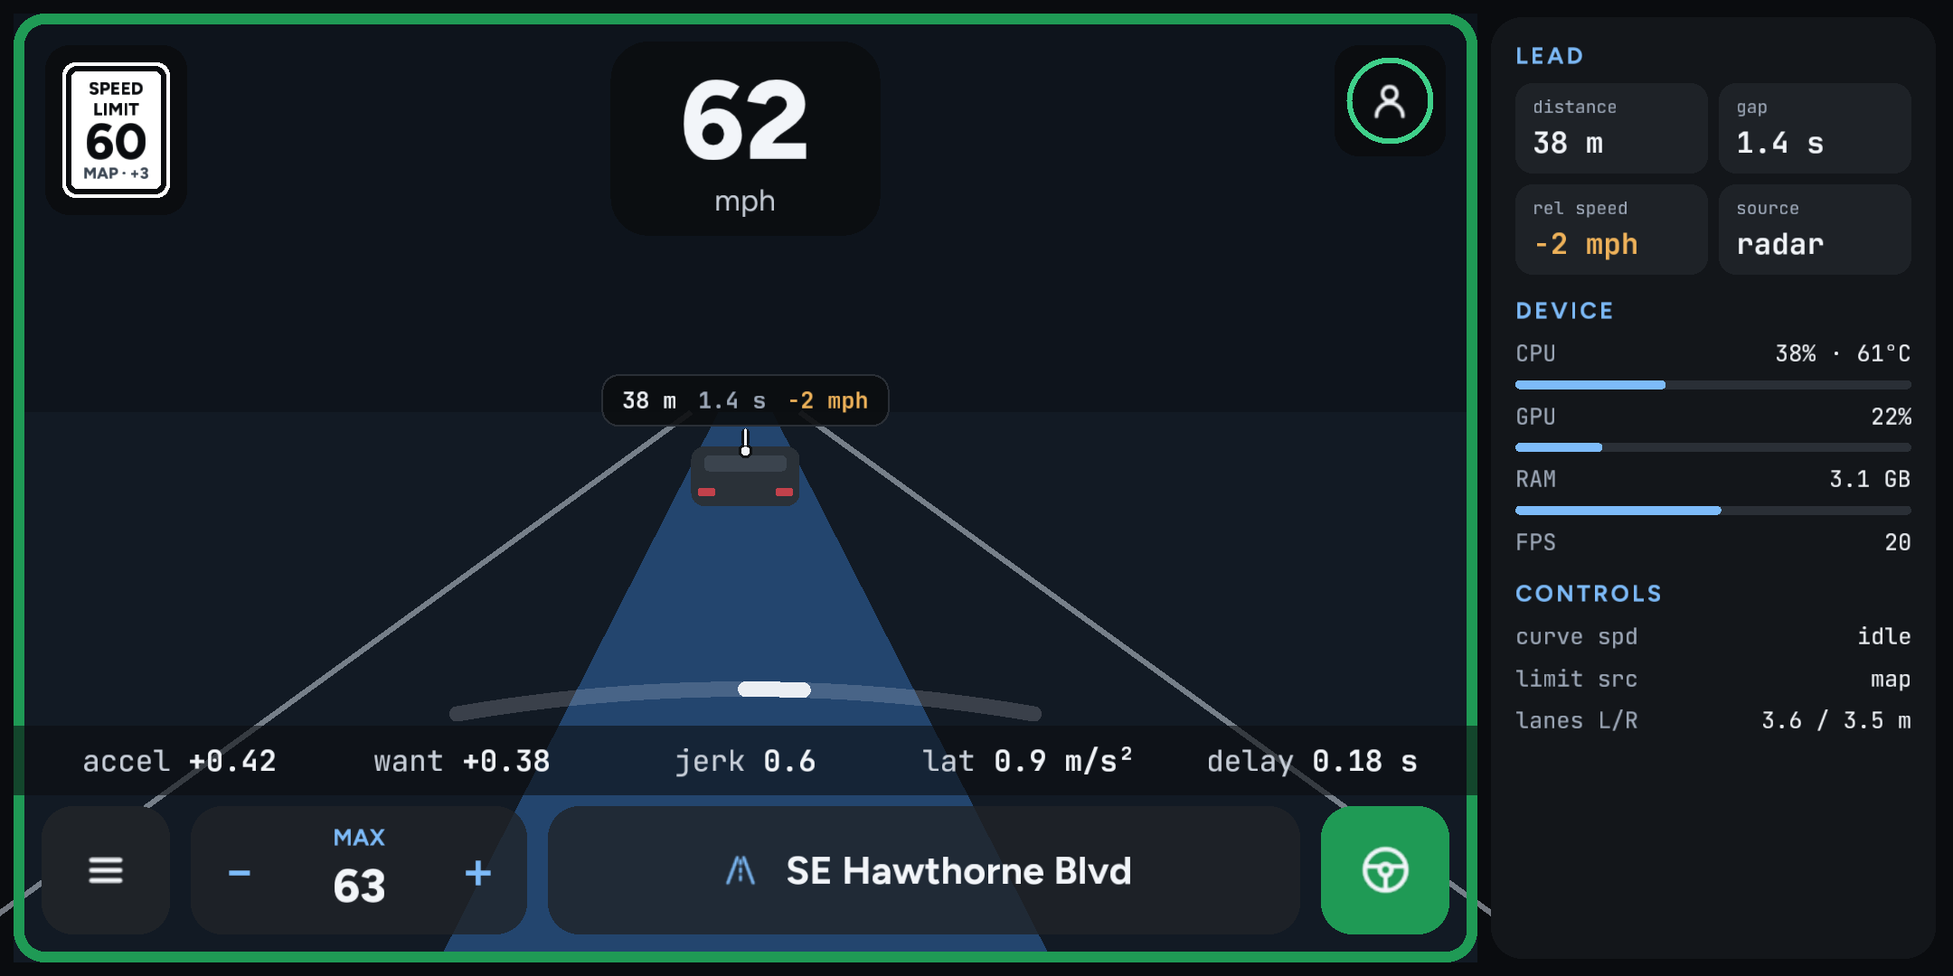
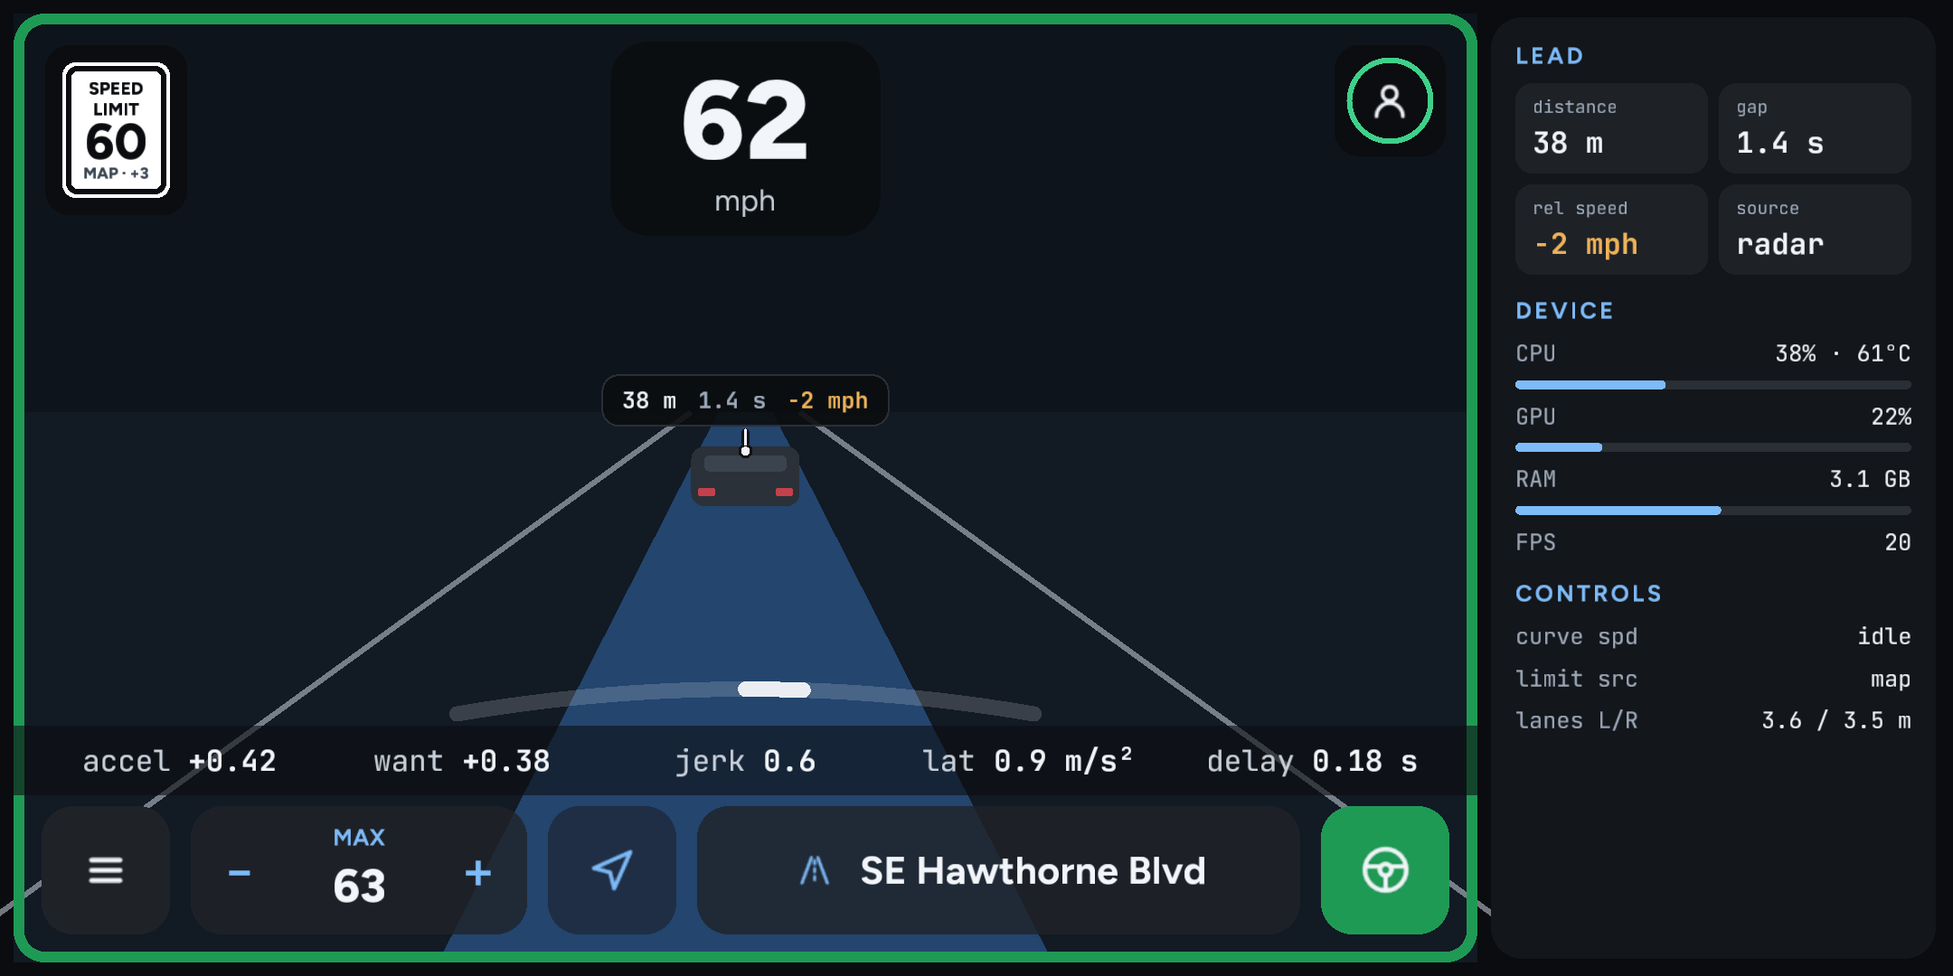
Drive screen: a Where to? button in the bar without a route
Beside MAX, a tinted square with the parked card's navigation arrow opens
Where to? over the driving view, so a destination can be set while
driving. Hidden while navigating, where End route is.

Claude-Session: https://claude.ai/code/session_01R4pPc2hcx88Dbjjec1p8WC

Changed region(s): [[0.3102, 0.825, 0.6204, 0.9778]]

diff --git a/selfdrive/ui/tandem/design/onroadwhereto.html b/selfdrive/ui/tandem/design/onroadwhereto.html
@@ -16,7 +16,7 @@ body{margin:0}
 <div style="width: 1560px; box-sizing: border-box; background: #0A0C0F; color: #F2F5F9; font-family: Figtree, system-ui, sans-serif; padding: 36px 44px 40px; display: flex; flex-direction: column; gap: 22px;">
   <div style="display: flex; flex-direction: column; gap: 6px;">
     <h1 style="margin: 0; font-size: 34px; font-weight: 800;">Where to? in the bar</h1>
-    <span style="font-size: 17px; color: #AEB6C2;">A button beside MAX opens Where to?, parked or driving: a tinted square with the navigation arrow from the parked screen's card.</span>
+    <span style="font-size: 17px; color: #AEB6C2;">Without a route, a button beside MAX opens Where to?: a tinted square with the navigation arrow from the parked screen's card.</span>
   </div>
   <div style="background: #13161A; border-radius: 22px; padding: 18px 20px 20px; display: flex; flex-direction: column; gap: 12px;">
     <span style="font-size: 13px; font-weight: 700; letter-spacing: 1.6px; color: #7DBBF9;">NO ROUTE</span>
@@ -29,9 +29,9 @@ body{margin:0}
   <div style="background: #13161A; border-radius: 22px; padding: 18px 20px 20px; display: flex; flex-direction: column; gap: 12px;">
     <span style="font-size: 13px; font-weight: 700; letter-spacing: 1.6px; color: #7DBBF9;">NAVIGATING</span>
     <div style="height: 150px; border-radius: 16px; background: linear-gradient(#0F1A24, #14202C); position: relative; overflow: hidden; border: 5px solid #1F9A55;">
-      <div style="position: absolute; left: 0; right: 0; bottom: 0; height: 92px; display: flex; align-items: center; gap: 12px; padding: 0 14px;"><button type="button" aria-label="Menu" style="flex-shrink: 0; width: 74px; height: 74px; border-radius: 18px; border: 0; background: #1F2328CC; display: flex; align-items: center; justify-content: center;"><svg width="28" height="28" viewBox="0 0 24 24" fill="none" stroke="#F2F5F9" stroke-width="2.4" stroke-linecap="round" aria-hidden="true"><path d="M5 7h14M5 12h14M5 17h14"></path></svg></button><div style="flex-shrink: 0; height: 74px; border-radius: 18px; background: #1F2328CC; display: flex; align-items: center; gap: 4px; padding: 0 6px;"><span style="width: 52px; text-align: center; font-size: 28px;">−</span><div style="width: 70px; display: flex; flex-direction: column; align-items: center; line-height: 1;"><span style="font-size: 12px; font-weight: 700; letter-spacing: 1.4px; color: #7DBBF9;">MAX</span><span style="font-size: 30px; font-weight: 800; margin-top: 3px;">48</span></div><span style="width: 52px; text-align: center; font-size: 28px;">+</span></div><button type="button" aria-label="Where to?" style="flex-shrink: 0; width: 74px; height: 74px; border-radius: 18px; border: 0; background: #1F2E45; display: flex; align-items: center; justify-content: center;"><svg width="28" height="28" viewBox="0 0 24 24" fill="none" stroke="#7DBBF9" stroke-width="2.2" stroke-linecap="round" stroke-linejoin="round" aria-hidden="true"><path d="M3 11l18-8-8 18-2-8z"></path></svg></button><div style="flex-grow: 1; min-width: 0; height: 74px; border-radius: 18px; background: #1F2328CC; display: flex; align-items: center; gap: 22px; padding: 0 12px 0 20px;"><span style="font-size: 22px; font-weight: 800; letter-spacing: 1px; color: #7DBBF9; background: #1F2E45; border-radius: 10px; padding: 6px 11px;">NE</span><div style="display: flex; flex-direction: column; gap: 2px;"><span style="font-size: 12px; font-weight: 700; letter-spacing: 1.4px; color: #8FA0B5;">ARRIVE</span><span style="font-size: 22px; font-weight: 700;">4:52 PM</span></div><div style="display: flex; flex-direction: column; gap: 2px;"><span style="font-size: 12px; font-weight: 700; letter-spacing: 1.4px; color: #8FA0B5;">LEFT</span><span style="font-size: 22px; font-weight: 700;">12 min · 8.4 mi</span></div><span style="width: 2px; height: 36px; background: #2A2F36;"></span><span style="flex-grow: 1; display: flex; align-items: center; gap: 12px; min-width: 0;"><svg width="22" height="22" viewBox="0 0 24 24" fill="none" stroke="#7DBBF9" stroke-width="2" stroke-linecap="round" stroke-linejoin="round" aria-hidden="true"><path d="M4 20L10 4M20 20L14 4M12 6v2M12 11v2M12 16v2"></path></svg><span style="font-size: 22px; font-weight: 700; white-space: nowrap; overflow: hidden; text-overflow: ellipsis;">SE Hawthorne Blvd</span></span><span style="height: 52px; padding: 0 18px; border-radius: 14px; background: #3A1D22; color: #FF9AA2; font-size: 17px; font-weight: 700; display: flex; align-items: center;">End route</span></div><button type="button" aria-label="Disengage" style="flex-shrink: 0; width: 74px; height: 74px; border-radius: 18px; border: 0; background: #1F9A55; display: flex; align-items: center; justify-content: center;"><svg width="32" height="32" viewBox="0 0 24 24" fill="none" stroke="#FFFFFF" stroke-width="2.2" stroke-linecap="round" stroke-linejoin="round" aria-hidden="true"><circle cx="12" cy="12" r="9"></circle><circle cx="12" cy="12" r="2.5"></circle><path d="M3.5 10.5h6M14.5 10.5h6M12 14.5V21"></path></svg></button></div>
+      <div style="position: absolute; left: 0; right: 0; bottom: 0; height: 92px; display: flex; align-items: center; gap: 12px; padding: 0 14px;"><button type="button" aria-label="Menu" style="flex-shrink: 0; width: 74px; height: 74px; border-radius: 18px; border: 0; background: #1F2328CC; display: flex; align-items: center; justify-content: center;"><svg width="28" height="28" viewBox="0 0 24 24" fill="none" stroke="#F2F5F9" stroke-width="2.4" stroke-linecap="round" aria-hidden="true"><path d="M5 7h14M5 12h14M5 17h14"></path></svg></button><div style="flex-shrink: 0; height: 74px; border-radius: 18px; background: #1F2328CC; display: flex; align-items: center; gap: 4px; padding: 0 6px;"><span style="width: 52px; text-align: center; font-size: 28px;">−</span><div style="width: 70px; display: flex; flex-direction: column; align-items: center; line-height: 1;"><span style="font-size: 12px; font-weight: 700; letter-spacing: 1.4px; color: #7DBBF9;">MAX</span><span style="font-size: 30px; font-weight: 800; margin-top: 3px;">48</span></div><span style="width: 52px; text-align: center; font-size: 28px;">+</span></div><div style="flex-grow: 1; min-width: 0; height: 74px; border-radius: 18px; background: #1F2328CC; display: flex; align-items: center; gap: 22px; padding: 0 12px 0 20px;"><span style="font-size: 22px; font-weight: 800; letter-spacing: 1px; color: #7DBBF9; background: #1F2E45; border-radius: 10px; padding: 6px 11px;">NE</span><div style="display: flex; flex-direction: column; gap: 2px;"><span style="font-size: 12px; font-weight: 700; letter-spacing: 1.4px; color: #8FA0B5;">ARRIVE</span><span style="font-size: 22px; font-weight: 700;">4:52 PM</span></div><div style="display: flex; flex-direction: column; gap: 2px;"><span style="font-size: 12px; font-weight: 700; letter-spacing: 1.4px; color: #8FA0B5;">LEFT</span><span style="font-size: 22px; font-weight: 700;">12 min · 8.4 mi</span></div><span style="width: 2px; height: 36px; background: #2A2F36;"></span><span style="flex-grow: 1; display: flex; align-items: center; gap: 12px; min-width: 0;"><svg width="22" height="22" viewBox="0 0 24 24" fill="none" stroke="#7DBBF9" stroke-width="2" stroke-linecap="round" stroke-linejoin="round" aria-hidden="true"><path d="M4 20L10 4M20 20L14 4M12 6v2M12 11v2M12 16v2"></path></svg><span style="font-size: 22px; font-weight: 700; white-space: nowrap; overflow: hidden; text-overflow: ellipsis;">SE Hawthorne Blvd</span></span><span style="height: 52px; padding: 0 18px; border-radius: 14px; background: #3A1D22; color: #FF9AA2; font-size: 17px; font-weight: 700; display: flex; align-items: center;">End route</span></div><button type="button" aria-label="Disengage" style="flex-shrink: 0; width: 74px; height: 74px; border-radius: 18px; border: 0; background: #1F9A55; display: flex; align-items: center; justify-content: center;"><svg width="32" height="32" viewBox="0 0 24 24" fill="none" stroke="#FFFFFF" stroke-width="2.2" stroke-linecap="round" stroke-linejoin="round" aria-hidden="true"><circle cx="12" cy="12" r="9"></circle><circle cx="12" cy="12" r="2.5"></circle><path d="M3.5 10.5h6M14.5 10.5h6M12 14.5V21"></path></svg></button></div>
     </div>
-    <span style="font-size: 15px; color: #C9D0DA;">The same button reopens Where to? to change the destination; End route stays in the bar.</span>
+    <span style="font-size: 15px; color: #C9D0DA;">No Where to? button while navigating: the bar keeps its room for arrival, time left, the street and End route.</span>
   </div>
 
 </div>

diff --git a/selfdrive/ui/tandem/onroad/layers.py b/selfdrive/ui/tandem/onroad/layers.py
@@ -45,14 +45,19 @@ def _glyph_button(name: str, on_click: Callable[[], None]) -> Button:
 
 
 class OnroadBar(Component):
-  """Menu, MAX − / +, the street name (with arrival, time left and End route while navigating), and engage."""
+  """Menu, MAX − / +, Where to? (without a route, design/onroadwhereto.html), the street name (with arrival, time left and
+  End route while navigating), and engage."""
   grow_touch_target = False
 
   def __init__(self, state: Callable[[], BarState], on_menu: Callable[[], None], on_speed: Callable[[int], None],
-               on_engage: Callable[[], None], on_end_route: Callable[[], None]):
+               on_engage: Callable[[], None], on_end_route: Callable[[], None], on_where_to: Callable[[], None] | None = None):
     super().__init__()
     self._state = state
     self._menu = self._child(_glyph_button("menu", on_menu))
+    # Ghost style over our own tinted fill, as the parked screen's Where to? card's icon well.
+    self._where = self._child(Button(on_click=on_where_to, style=ButtonStyle.GHOST, height=BAR_HEIGHT, width=BAR_HEIGHT,
+                                     radius=T.RADIUS_CARD, glyph=lambda r, c, s: draw.icon(r, "navigate", T.ACCENT_TEXT, T.px(28))))
+    self._has_where = on_where_to is not None
     self._minus = self._child(Button("−", lambda: on_speed(-1), ButtonStyle.GHOST, height=BAR_HEIGHT, width=T.px(56),
                                      font_size=T.font_px(30)))
     self._plus = self._child(Button("+", lambda: on_speed(1), ButtonStyle.GHOST, height=BAR_HEIGHT, width=T.px(56),
@@ -64,8 +69,14 @@ class OnroadBar(Component):
     for b in (self._minus, self._plus):
       b.set_enabled(lambda: self._state().engaged and self._state().set_speed > 0)
 
+  def where_to_shown(self) -> bool:
+    return self._has_where and not self._state().navigating
+
   def rects(self, rect: rl.Rectangle) -> dict[str, rl.Rectangle]:
     body = rl.Rectangle(rect.x + BAR_MARGIN, rect.y + rect.height - BAR_MARGIN - BAR_HEIGHT, rect.width - BAR_MARGIN * 2, BAR_HEIGHT)
+    if self.where_to_shown():
+      menu, speed, where, center, engage = row(body, [BAR_HEIGHT, T.px(194), BAR_HEIGHT, FILL, BAR_HEIGHT], T.px(12))
+      return {"menu": menu, "speed": speed, "where": where, "center": center, "engage": engage}
     menu, speed, center, engage = row(body, [BAR_HEIGHT, T.px(194), FILL, BAR_HEIGHT], T.px(12))
     return {"menu": menu, "speed": speed, "center": center, "engage": engage}
 
@@ -76,6 +87,9 @@ class OnroadBar(Component):
     state = self._state()
     r = self.rects(rect)
     self._menu.render(r["menu"])
+    if "where" in r:
+      draw.fill(r["where"], T.ACCENT_SURFACE, T.RADIUS_CARD)
+      self._where.render(r["where"])
 
     draw.fill(r["speed"], CONTROL_FILL, T.RADIUS_CARD)
     minus, value, plus = row(r["speed"], [T.px(56), FILL, T.px(56)])

diff --git a/selfdrive/ui/tandem/onroad/view.py b/selfdrive/ui/tandem/onroad/view.py
@@ -167,7 +167,7 @@ class EssentialsOnroadView(StarPilotOnroadView):
     self._limit_offer = LimitOfferState()
     self._follower = LimitFollower()
     self._offer_chime = OfferChime()
-    self._bar = OnroadBar(self._bar_state, self._open_menu, self._step_speed, self._toggle_engaged, self._end_route)
+    self._bar = OnroadBar(self._bar_state, self._open_menu, self._step_speed, self._toggle_engaged, self._end_route, self._where_to)
     self._chip_view = StatusChip(lambda: self._chip_list)
     self._arc = HeadroomArc(lambda: self._arc_state, lambda: DEV_ARC if self._dev is not None else ARC,   # each mock's curve
                             lambda: self._headroom_warning)
@@ -633,6 +633,12 @@ class EssentialsOnroadView(StarPilotOnroadView):
     from openpilot.starpilot.common.controller_actions import CONTROLLER_ACTION_DISENGAGE, CONTROLLER_ACTION_ENGAGE
     from openpilot.starpilot.system.wheel_controls.wheel_controlsd import trigger_controller_action
     trigger_controller_action(CONTROLLER_ACTION_DISENGAGE if ui_state.engaged else CONTROLLER_ACTION_ENGAGE, self._memory)
+
+  def _where_to(self) -> None:
+    """The bar's Where to? (without a route): the same screen as the parked card, over the driving view."""
+    from openpilot.system.ui.lib.application import gui_app
+    from openpilot.selfdrive.ui.tandem.destinations import destinations_screen
+    gui_app.push_widget(destinations_screen(gui_app.pop_widget))
 
   def _end_route(self) -> None:
     self._params.remove("NavDestination")

diff --git a/selfdrive/ui/tandem/tests/test_bar.py b/selfdrive/ui/tandem/tests/test_bar.py
@@ -1,0 +1,32 @@
+"""The drive screen's bar: Where to? beside MAX without a route (design/onroadwhereto.html), none while navigating."""
+import pyray as rl
+
+from openpilot.selfdrive.ui.tandem.onroad.layers import BarState, OnroadBar
+
+RECT = rl.Rectangle(0, 0, 2160, 1080)
+
+
+def _bar(state, where_to=lambda: None):
+  return OnroadBar(lambda: state, lambda: None, lambda d: None, lambda: None, lambda: None, where_to)
+
+
+def test_where_to_sits_beside_max_without_a_route():
+  r = _bar(BarState(street="N Main St")).rects(RECT)
+  assert list(r) == ["menu", "speed", "where", "center", "engage"]
+  assert r["where"].x > r["speed"].x and r["center"].x > r["where"].x
+  hits = [(h.x, h.y, h.width, h.height) for h in _bar(BarState()).hit_rects(RECT)]
+  assert (r["where"].x, r["where"].y, r["where"].width, r["where"].height) in hits   # taps there are the bar's, not the road's
+
+
+def test_no_where_to_while_navigating_or_without_a_way_to_open_it():
+  assert "where" not in _bar(BarState(navigating=True)).rects(RECT)
+  assert "where" not in _bar(BarState(), where_to=None).rects(RECT)
+  wide, narrow = _bar(BarState(navigating=True)).rects(RECT)["center"], _bar(BarState()).rects(RECT)["center"]
+  assert wide.width > narrow.width                       # navigating keeps the street pill's full width
+
+
+def test_the_button_opens_where_to():
+  opened = []
+  bar = _bar(BarState(), lambda: opened.append(True))
+  bar._where._click_callback()
+  assert opened == [True]

diff --git a/selfdrive/ui/tandem/tools/render/scene_dev.py b/selfdrive/ui/tandem/tools/render/scene_dev.py
@@ -10,7 +10,8 @@ from openpilot.selfdrive.ui.tandem.onroad.layers import (DEV_ARC, ArcState, BarS
 
 def main(frame, save, out, tap, gui_app):
   rect = rl.Rectangle(15, 15, 2160 - WIDTH - 30, 1050)
-  bar = OnroadBar(lambda: BarState(True, True, 63, "mph", "SE Hawthorne Blvd"), lambda: None, lambda d: None, lambda: None, lambda: None)
+  state = BarState(True, True, 63, "mph", "SE Hawthorne Blvd")
+  bar = OnroadBar(lambda: state, lambda: None, lambda d: None, lambda: None, lambda: None, lambda: None)
   lead = Lead("38 m", "1.4 s", "−2 mph", True, "radar")
   data = DevData(lead, 0.38, "61°C", 0.22, 0.52, "3.1 GB", "20", "idle", "map", "3.6 / 3.5 m", "+0.42", "+0.38", "0.6", "0.9 m/s²", "0.18 s")
 

diff --git a/selfdrive/ui/tandem/tools/render/scene_extras.py b/selfdrive/ui/tandem/tools/render/scene_extras.py
@@ -22,7 +22,7 @@ def main(frame, save, out, tap, gui_app):
   left_lane = ribbon((cx - 90, horizon), (cx - 30, horizon), (cx - 1400, bottom), (cx - 340, bottom))
   right_lane = ribbon((cx + 30, horizon), (cx + 90, horizon), (cx + 340, bottom), (cx + 1400, bottom))
   state = BarState(True, True, 63, "mph", "Market Street", heading="NE", weather=("cloud", "34°"))
-  bar = OnroadBar(lambda: state, lambda: None, lambda d: None, lambda: None, lambda: None)
+  bar = OnroadBar(lambda: state, lambda: None, lambda d: None, lambda: None, lambda: None, lambda: None)
   marker = rl.load_render_texture(22, 22)
   rl.begin_texture_mode(marker)
   rl.clear_background(rl.Color(0, 0, 0, 0))

diff --git a/selfdrive/ui/tandem/tools/render/scene_onroad.py b/selfdrive/ui/tandem/tools/render/scene_onroad.py
@@ -23,7 +23,7 @@ def road(rect):
 
 def scene(state, arc, chip, offer=None, help_=False, speed=62, limit="60", turn=None, signal=None, attentive=1.0):
   rect = rl.Rectangle(15, 15, W - 30, H - 30)
-  bar = OnroadBar(lambda: state, lambda: None, lambda d: None, lambda: None, lambda: None)
+  bar = OnroadBar(lambda: state, lambda: None, lambda d: None, lambda: None, lambda: None, lambda: None)
   def render():
     road(rect)
     HeadroomArc(lambda: arc, help_steer=lambda: help_).render(rect)

diff --git a/selfdrive/ui/tandem/README.md b/selfdrive/ui/tandem/README.md
@@ -195,6 +195,7 @@ These are reached from a row or button, never as a tab:
 - **Menu timeout while driving** (`menu_idle.py`): upstream's MainLayout goes back to the driving view when the screen's interaction timeout runs out (`ScreenTimeoutOnroad`, 30 s by default), closing the sidebar and settings. A second callback on that same timeout also closes anything opened on top of them (a keyboard, Where to?, the driver camera preview, a dialog). Parked, nothing extra closes. No upstream edit.
 - **Mapbox keys** (`mapbox_help.py`, mocks `drivingnav.html`, `mapboxkey.html`): StarPilot takes two. The public key (`MapboxPublicKey`, pk., the account's default token) is for place search (Search Box API); the secret key (`MapboxSecretKey`, sk.) is for routes, turn guidance and the Mapbox speed-limit filler (Directions API), which the Essentials defaults turn on (`SLCMapboxFiller`). Tandem has no field to type them: Navigation's Mapbox Keys row says which are saved and opens a sheet with the steps (a Mapbox account; a token with the default public scopes plus DOWNLOADS:READ, which makes it sk.; Remote Access; Galaxy › Navigation & Maps › App Keys, where the owner found it; Galaxy's classic layout also lists App Keys under Tools). Without the public key Where to? says search needs it; without the secret one the route preview says routes do. Where the mock bolds sk. and pk. in the steps, the code's wrapped text can't.
 - **Weather heads-up** (`forecast.py`, mocks `statuschips.html`, `drivingweather.html`, `alerts.html`): the next 24 hours of Open-Meteo's forecast in 15-minute steps (free, no key, the source StarPilot's weather presets use), kept in `.tandem_forecast.json` beside the params folder. It's fetched in the background at most once an hour, or sooner when the car is more than 20 miles from where it was fetched; a failed fetch retries after 5 minutes. The location is StarPilot's `LastGPSPosition`. Rain (from light rain), drizzle, freezing rain, snow, thunderstorms and fog count, each by name. A status chip shows "Snow in 12 min" from 15 minutes before it starts, then "Snow until 8:15 PM" (the place's local time) while it lasts, in place of the presets' longer-gap chip. When an event is first seen within the hour (60 minutes out, or less when the car was just turned on), the chip shows briefly and the pre-alert chimes once. Switches: Weather › Weather heads-up and Alerts › Chimes › Weather heads-up, both marker files (`prefs.py`), on by default. Times are to the nearest 15 minutes, and it's a forecast, not radar.
+- **Where to? in the bar** (`OnroadBar`, mock `onroadwhereto.html`): without a route, a tinted square beside MAX with the parked card's navigation arrow opens Where to? over the driving view, so a destination can be set while driving (with voice typing). While navigating it isn't there; End route is.
 - **Weather in the bar** (`layers.weather_now`, `forecast.now_conditions`, mock `onroadextras.html`): without a route, the drive screen's bar ends with the current hour's weather icon and temperature (°F/°C from General › Temperature) at the street name's size, opposite the compass tag; the street centers between them. From the same forecast, so only with Weather heads-up on and a forecast that covers the hour.
 - **Parked forecast** (`home.py` Hero, `forecast.outlook`, mocks `homeweather.html`, `homeweatherdry.html`): the next 12 hours along the bottom of the Ready card, one tile an hour (time, icon, temperature in °F or °C from General › Temperature, `prefs.TEMPERATURE`, which follows Units until the driver picks one), with one line above: the next hazard ("Light snow from 5:45 to 8:30 PM", or "until" while it's falling) or, when dry, the sky over the most hours in Open-Meteo's terms (Sunny, Mostly sunny, Partly cloudy, Cloudy; Clear and Mostly clear at night). It shares the drive screen's forecast (`shared_service`), which the parked screen also refreshes; the location is StarPilot's live GPS position, or after a restart the one it saved (`where_now`, as Galaxy finds the car). Failed fetches are logged ("weather forecast fetch failed"). Hidden with fewer than 3 hours of forecast left, or with Weather heads-up off.
 - **Sidebar** (`sidebar.py`): subclasses upstream's Sidebar, which still tracks device state and owns the callbacks. It has a Settings button and a status card with Network, comma connect, Temperature, Vehicle and Maps, each with a colored dot. Onroad it adds Save a clip (upstream's flag button), and it shows a recording indicator while cabin audio is recorded.

diff --git a/RELEASES.md b/RELEASES.md
@@ -17,6 +17,7 @@ Tandem 2026.11.01
   * Alerts in three levels: info, warning and critical
   * Turn Signal: chevrons by the speed, or a jumping frog, pouncing cat or bouncing ball
 * Where to?: destination search, favorites and a route preview with arrival time
+  * A Where to? button in the driving bar, to set a destination while driving
 * Voice typing, parked or driving: tap the mic and say a place, a setting or any text but a password
 * Voice typing: fixed a speech-decoder failure on the comma 3X
 * Faster voice typing, with an offline CPU speech engine
